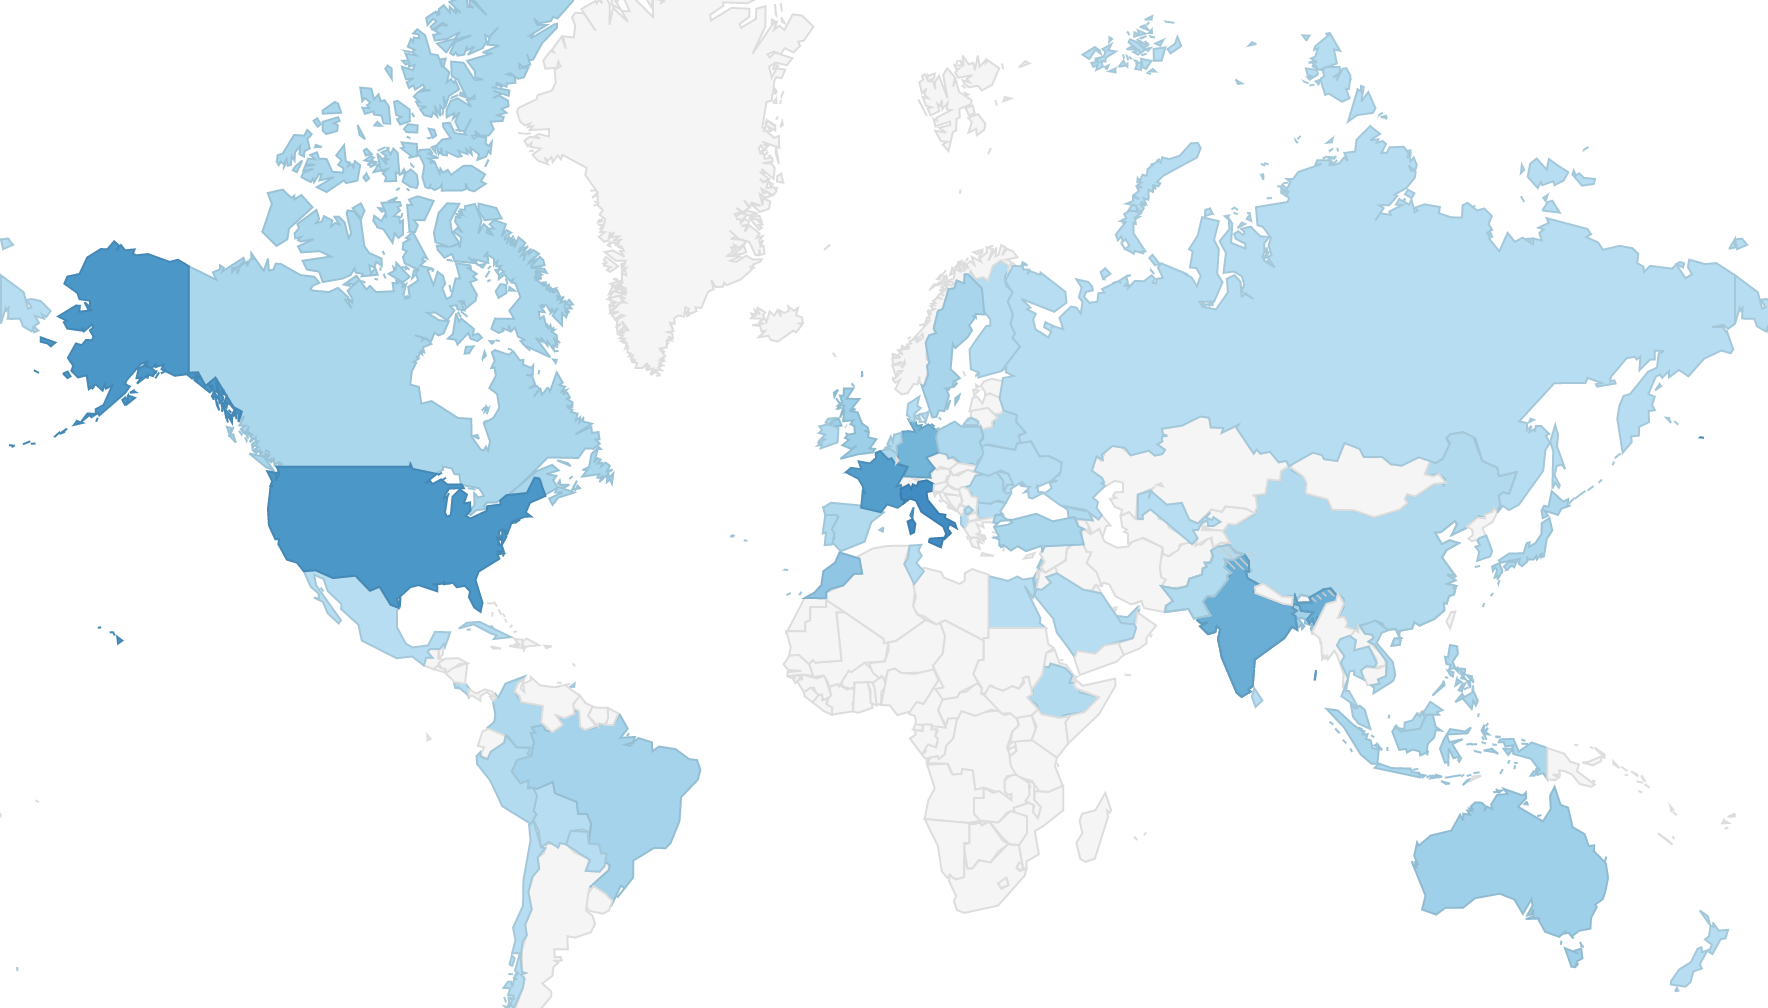
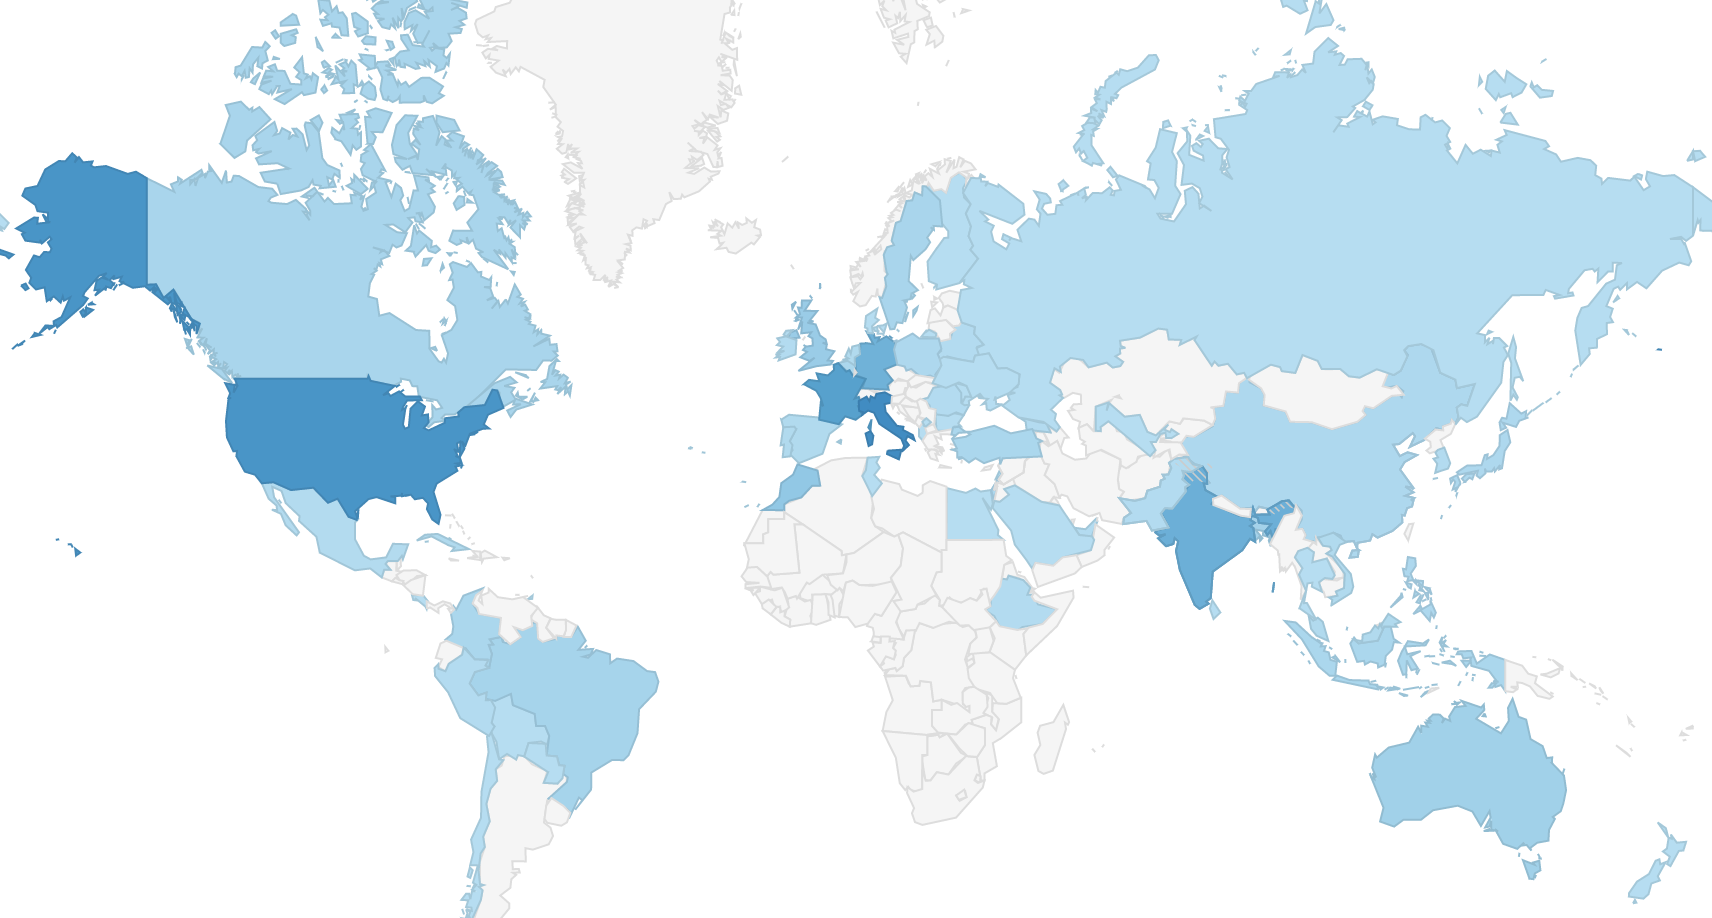
new world audience screenshot

diff --git a/README.md b/README.md
@@ -133,7 +133,7 @@ Adding or removing countries from the list with the country picker modal dialog 
 
 ## Some analytics
 
-That's the map from [Google Analytics](https://analytics.google.com/analytics/web/#/) about the frequentation of the site, as of 18th of June 2020, since its creation, the 17 of April 2020.
+That's the map from [Google Analytics](https://analytics.google.com/analytics/web/#/) about the frequentation of the site, as of 22th of June 2020, since its creation, the 17 of April 2020.
 
 ![Google Analytics geo map of frequentation](./img/screenshot-world-audience.png)
 
